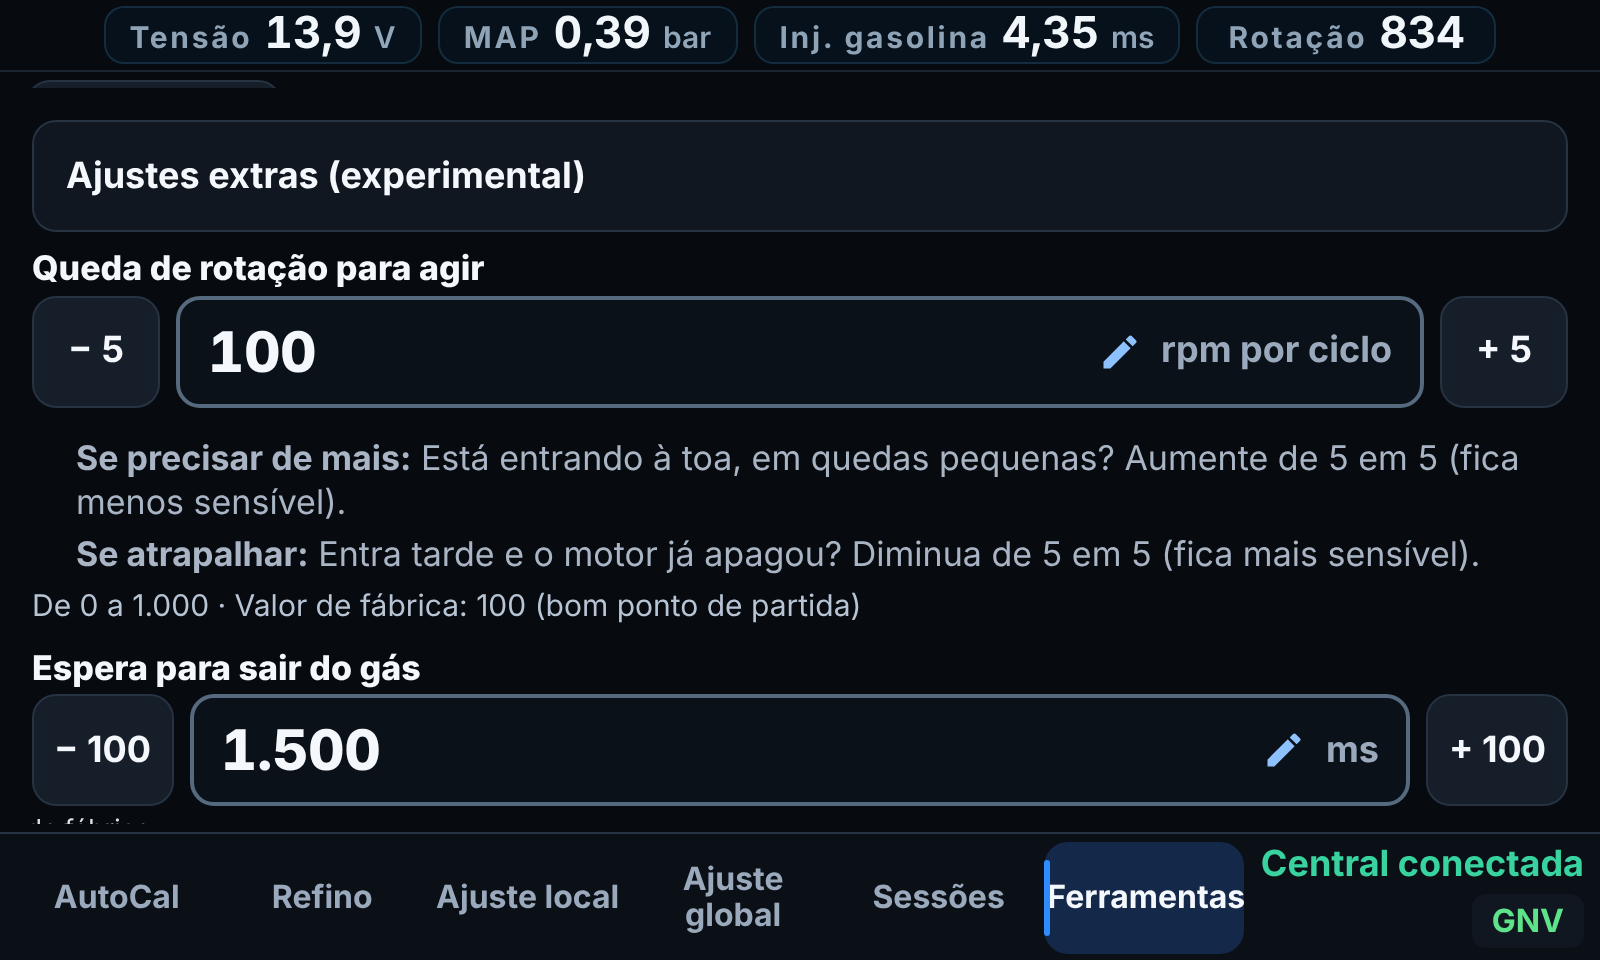
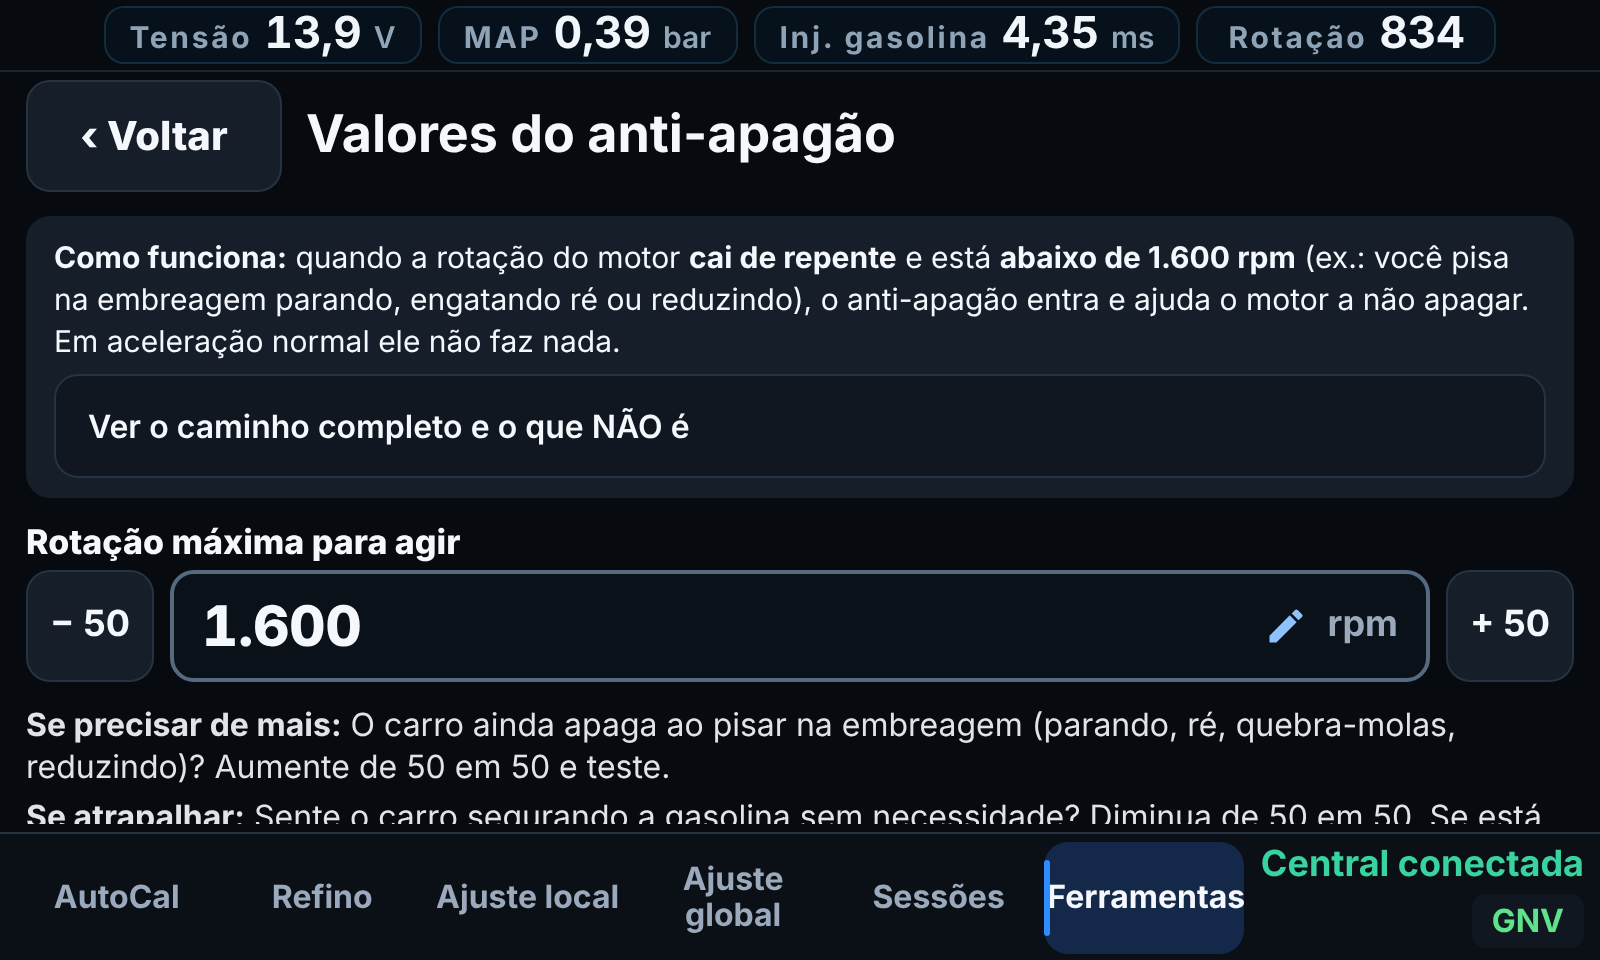
css: texto das dicas ≥ 16px (legibilidade)
Claude-Session: https://claude.ai/code/session_01JEx3o71ikj852jJzY51Gkf

Changed region(s): [[0.0, 0.0938, 1.0, 0.875]]

diff --git a/app/src/main/assets/ui/styles-ux-leigo.css b/app/src/main/assets/ui/styles-ux-leigo.css
@@ -290,3 +290,5 @@
 .mais-info > summary { display: flex; align-items: center; min-height: 52px; padding: 0 16px; border: 1px solid var(--line); border-radius: 12px; background: var(--surface); color: var(--text); font-size: 16px; font-weight: 600; cursor: pointer; }
 .mais-info[open] > summary { margin-bottom: 8px; }
 .mais-info ol, .mais-info p { font-size: 14px; line-height: 1.4; }
+.num-field .num-meta, .num-field .num-tips, .num-field .num-warn { font-size: 16px; }
+.como-funciona, .como-funciona p, .mais-info ol, .mais-info p { font-size: 15px; }
